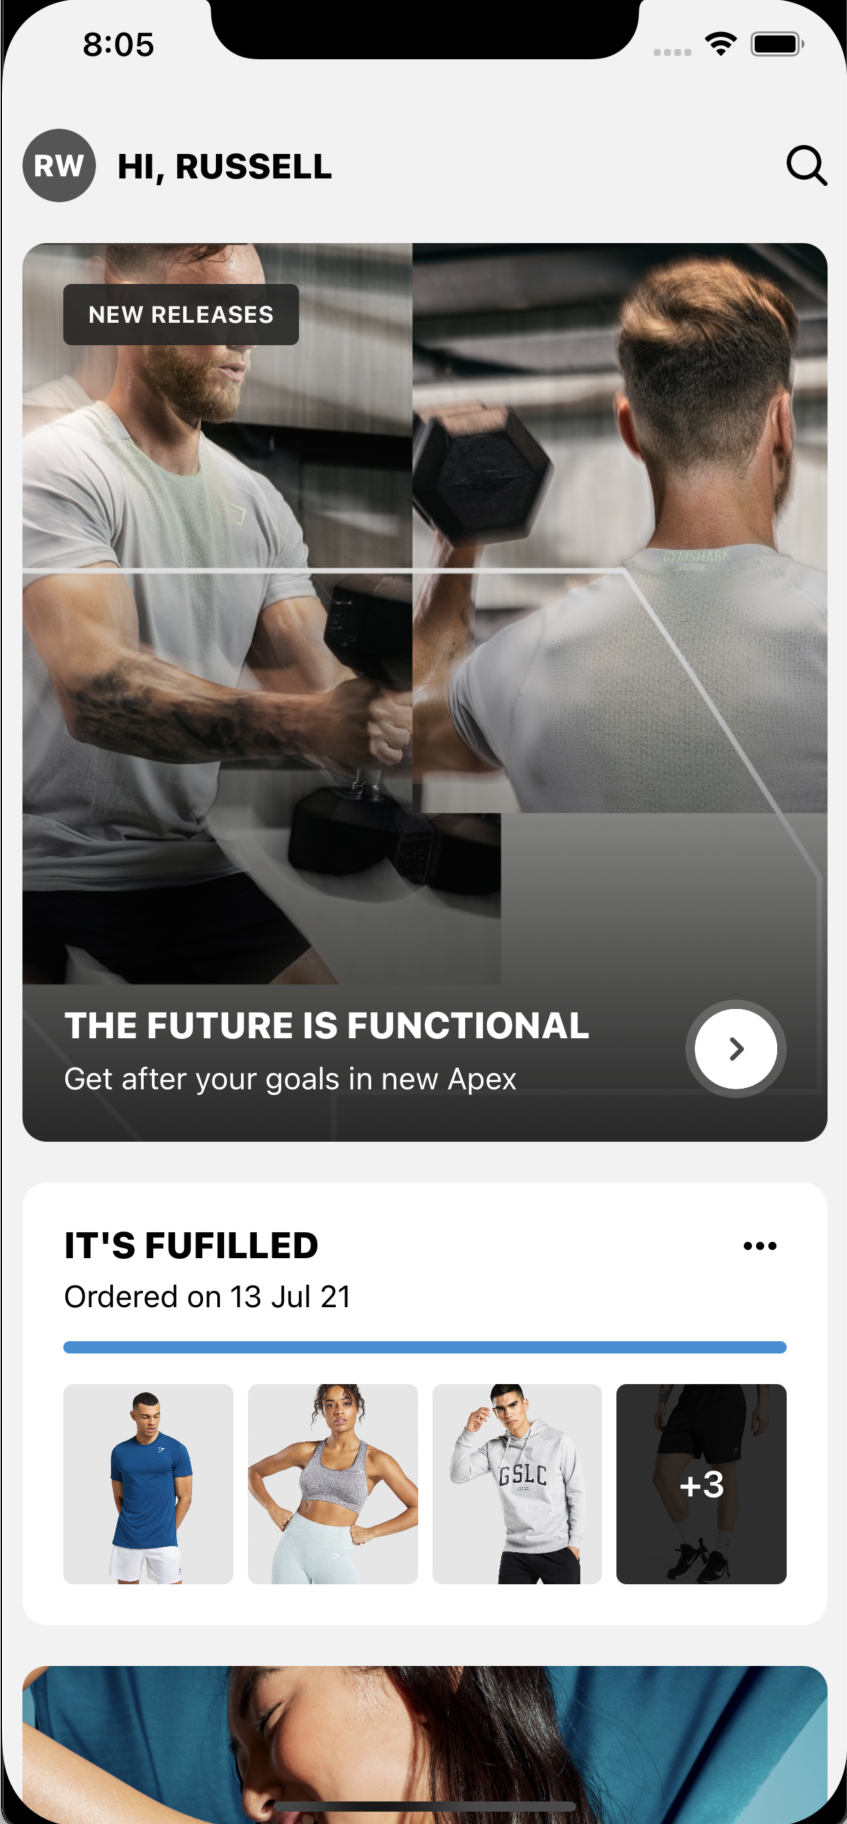
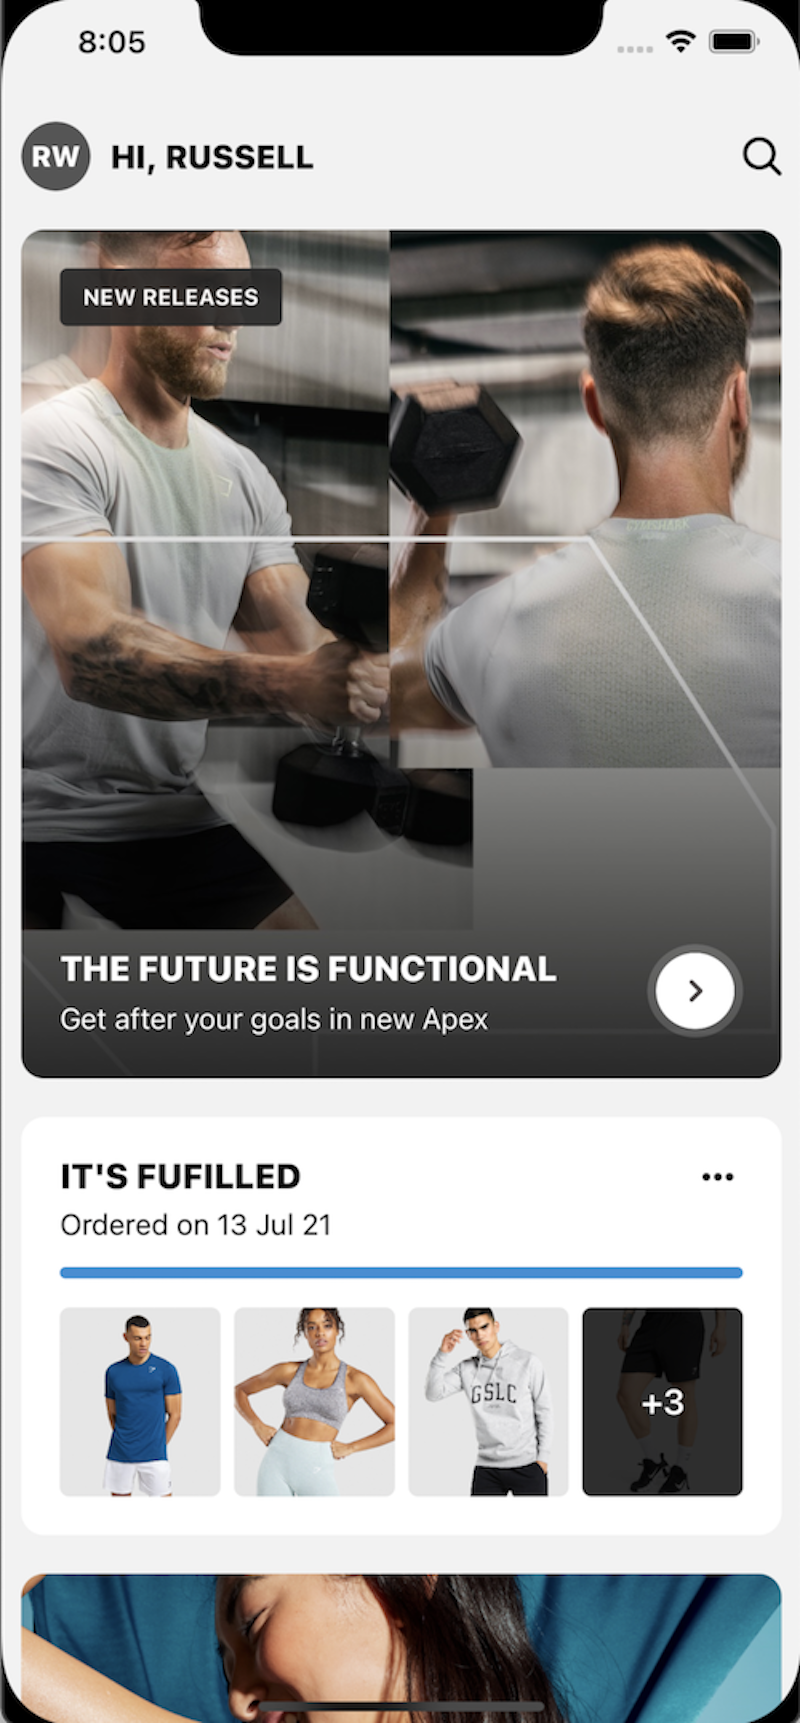
Updates example image so they are same format

diff --git a/README.md b/README.md
@@ -8,7 +8,7 @@ StackKit harnesses the power of [UIStackView's](https://developer.apple.com/docu
 
 |                      Feed                      |                      Account                      |
 | :------------------------------------------------: | :--------------------------------------------: |
-| ![](Assets/example-1.png) | ![](Assets/example-2.png)) |
+| ![](Assets/example-1.png) | ![](Assets/example-2.png) |
 
 ## Why StackKit?
 
